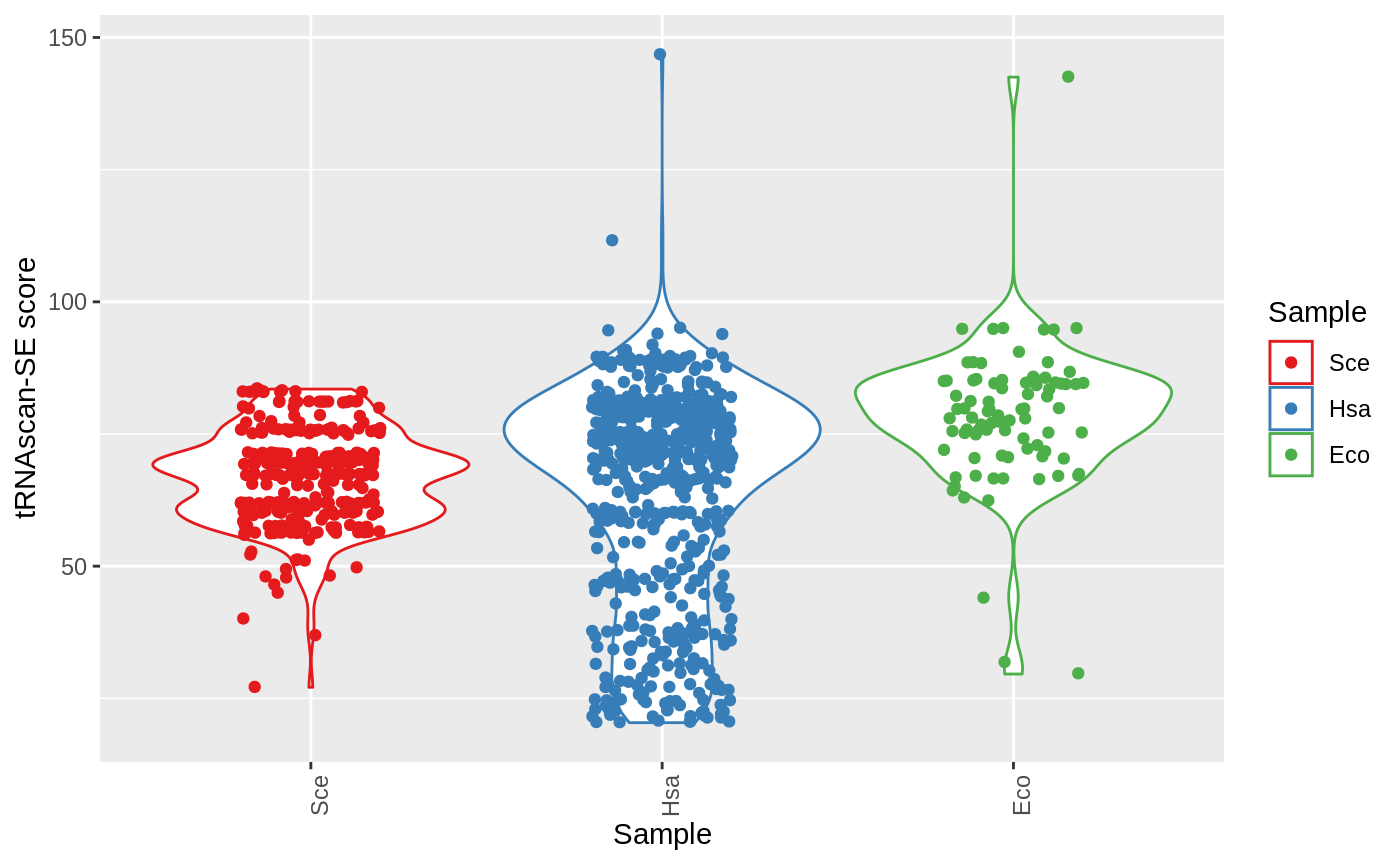
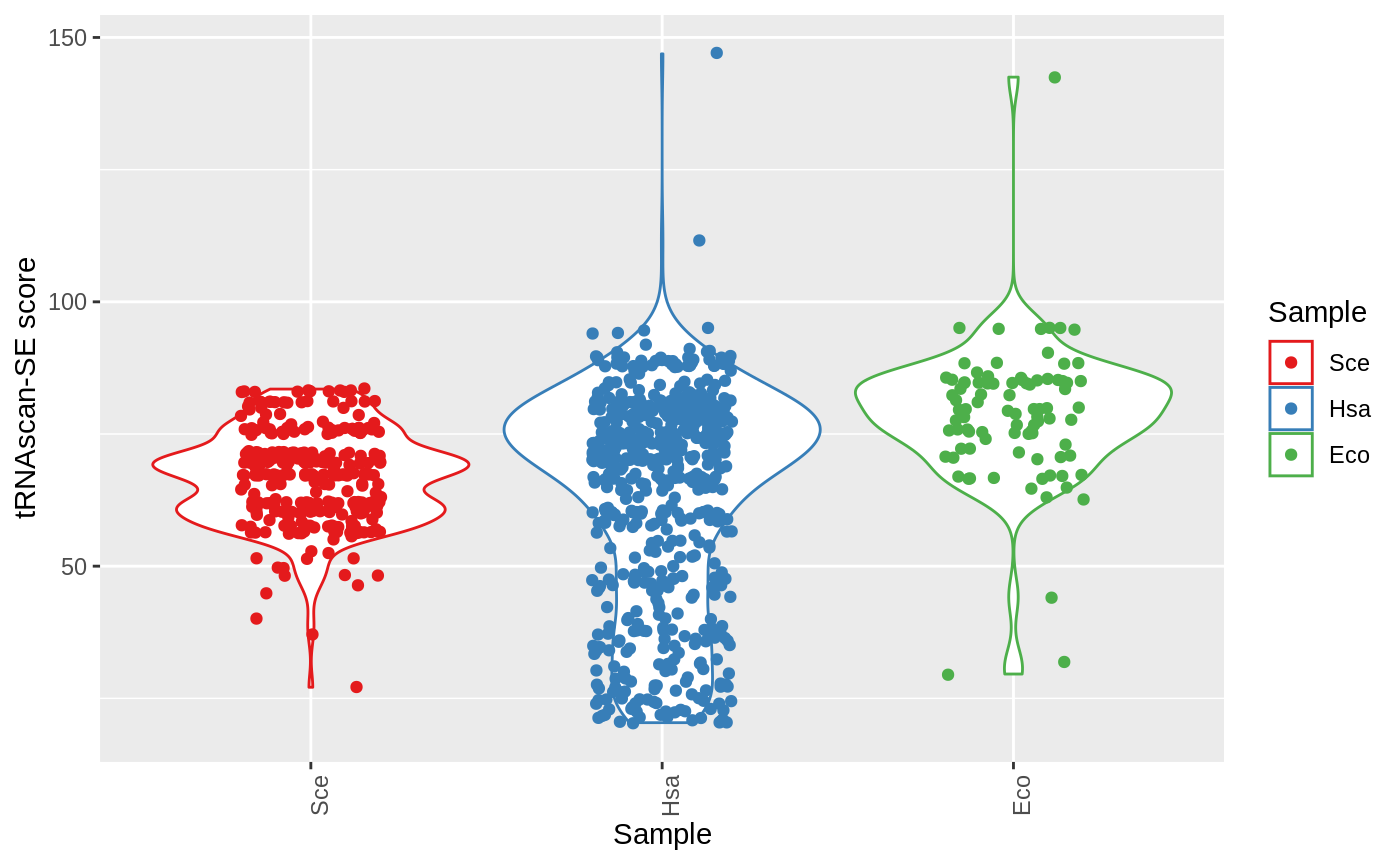
Built site for tRNA: 1.5.2@8888be2

diff --git a/index.html b/index.html
@@ -129,9 +129,10 @@ library("tRNA")</a></code></pre>
 <h2>Dev status</h2>
 <ul class="list-unstyled">
 <li><a href="https://github.com/FelixErnst/tRNA/actions/"><img src="https://github.com/FelixErnst/tRNA/workflows/R-CMD-check/badge.svg" alt="R-CMD-check"></a></li>
+<li><a href="https://travis-ci.com/FelixErnst/tRNA"><img src="https://travis-ci.com/FelixErnst/tRNA.svg?branch=master" alt="Build Status"></a></li>
+<li><a href="http://bioconductor.org/checkResults/release/bioc-LATEST/tRNA/"><img src="https://bioconductor.org/shields/build/release/bioc/tRNA.svg" alt="BioC Build"></a></li>
 <li><a href="https://codecov.io/gh/FelixErnst/tRNA"><img src="https://codecov.io/gh/FelixErnst/tRNA/branch/master/graph/badge.svg" alt="codecov"></a></li>
 <li><a href="https://doi.org/doi:10.18129/B9.bioc.tRNA"><img src="https://bioconductor.org/shields/years-in-bioc/tRNA.svg" alt="BioC Years"></a></li>
-<li><a href="http://bioconductor.org/checkResults/release/bioc-LATEST/tRNA/"><img src="https://bioconductor.org/shields/build/release/bioc/tRNA.svg" alt="BioC Build"></a></li>
 </ul>
 </div>
 </div>

diff --git a/articles/tRNA.html b/articles/tRNA.html
@@ -273,12 +273,12 @@ Customized plot switching out the point and violin plot into a boxplot.
 <p>In addition, the data of the plots can be accessed directly.</p>
 <div class="sourceCode" id="cb22"><html><body><pre class="r"><span class="fu"><a href="https://rdrr.io/r/utils/head.html">head</a></span>(<span class="no">plots</span>$<span class="no">length</span>$<span class="no">data</span>)</pre></body></html></div>
 <pre><code>##    id value    score
-## 1 Sce    71 11.05152
-## 2 Sce    72 45.49901
-## 3 Sce    80 64.05464
-## 4 Sce    81 87.03927
-## 5 Sce    82 95.39610
-## 6 Sce    72 59.84635</code></pre>
+## 1 Sce    71 11.43246
+## 2 Sce    72 53.87910
+## 3 Sce    80 50.52091
+## 4 Sce    81 79.18198
+## 5 Sce    82 45.18113
+## 6 Sce    72 94.61291</code></pre>
 </div>
 <div id="options" class="section level1">
 <h1 class="hasAnchor">
